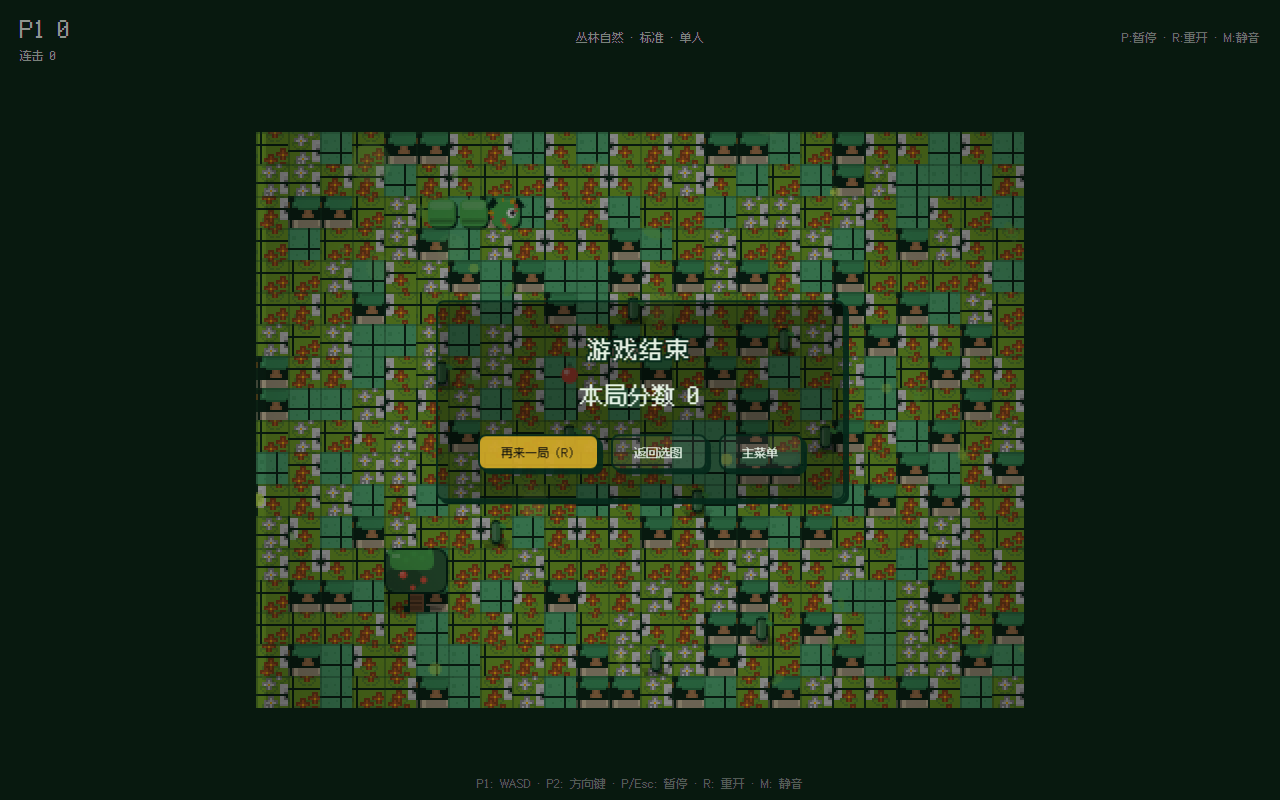
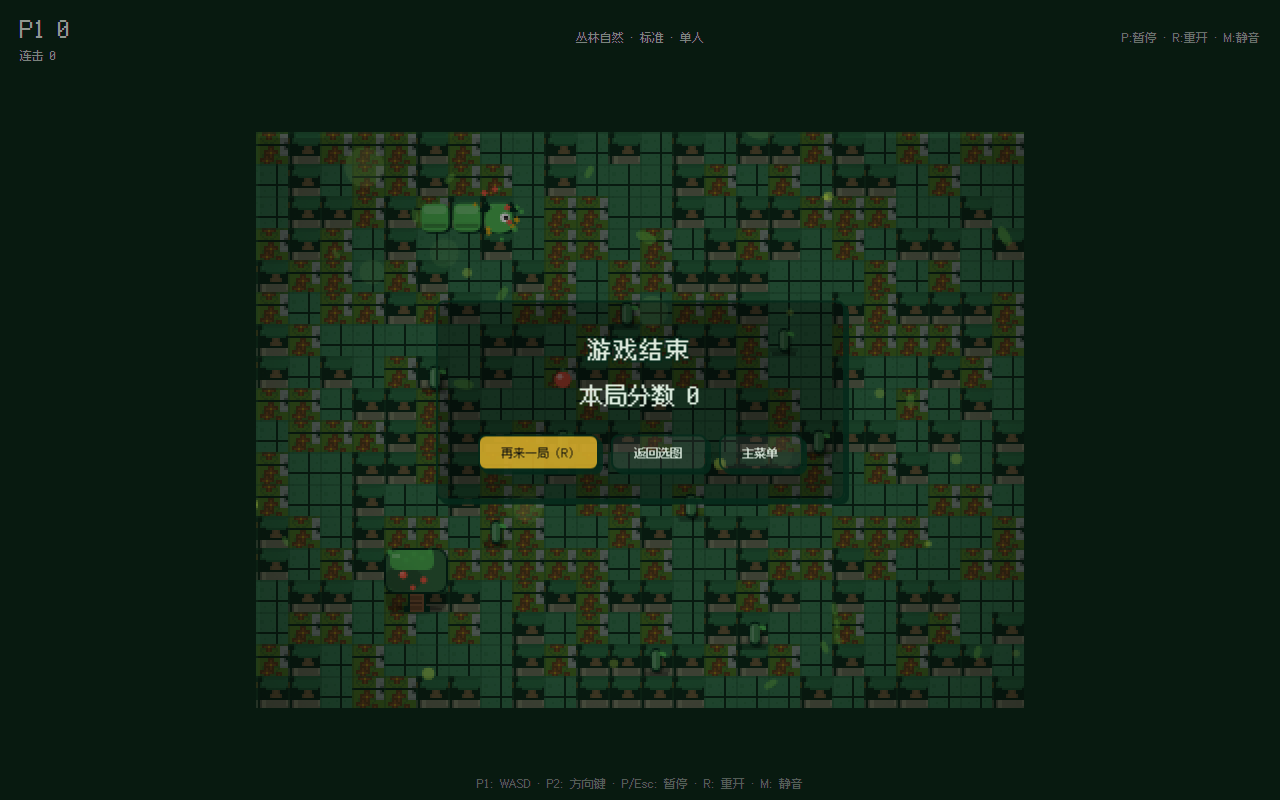
fix: 丛林地表压暗50%+减少瓦片变体（用户反馈太花看不清，蛇/障碍对比度恢复）

diff --git a/src/render/staticLayer.ts b/src/render/staticLayer.ts
@@ -35,7 +35,7 @@ export function renderStaticLayer(
   // ---- 地表：贴图平铺（素材模式，docs/02）或程序化底纹 ----
   const sheet = theme.sprites ? getSheet(theme.sprites.sheet) : null
   if (sheet && theme.sprites) {
-    // Kenney 草地砖平铺：按 decorSeed 随机取变体，相邻格避免同变体（星露谷式地表纹理）
+    // 草地砖平铺：按 decorSeed 随机取变体，相邻格避免同变体
     const tiles = theme.sprites.bgTiles
     const rng = mulberry32(map.decorSeed * 131 + 17)
     const pick = (gx: number, gy: number): { x: number; y: number } => {
@@ -50,6 +50,11 @@ export function renderStaticLayer(
         drawTile(ctx, sheet, t.x, t.y, gx * CELL, gy * CELL)
       }
     }
+    // 地表压暗：叠加半透明主题深色，保证蛇/障碍/食物清晰（用户反馈"太花看不清"）
+    ctx.fillStyle = theme.palette.bg
+    ctx.globalAlpha = 0.5
+    ctx.fillRect(0, 0, w, h)
+    ctx.globalAlpha = 1
   } else {
     drawTexture(ctx, theme, w, h, rng)
   }

diff --git a/src/game/themes/jungle.ts b/src/game/themes/jungle.ts
@@ -31,15 +31,12 @@ export const jungleTheme: Theme = {
   anim: { eatParticle: "leaf", dur: 300 },
   foodStyle: "berry", // docs/09：红浆果
   // 贴图试点（docs/02 素材模式）：Kenney CC0 草地砖平铺地表
-  // 坐标来自 roguelikeSheet.png：纯草(11,11) + 草变体(0,7)(1,7)(3,7)(0,10) + 草土过渡(19,12)
+  // 只保留低对比变体（纯草 + 1 变体 + 过渡），避免地表"太花"（用户反馈）
   sprites: {
     sheet: "roguelike",
     bgTiles: [
       { x: 11, y: 11 },
       { x: 0, y: 7 },
-      { x: 1, y: 7 },
-      { x: 3, y: 7 },
-      { x: 0, y: 10 },
       { x: 19, y: 12 },
     ],
   },
